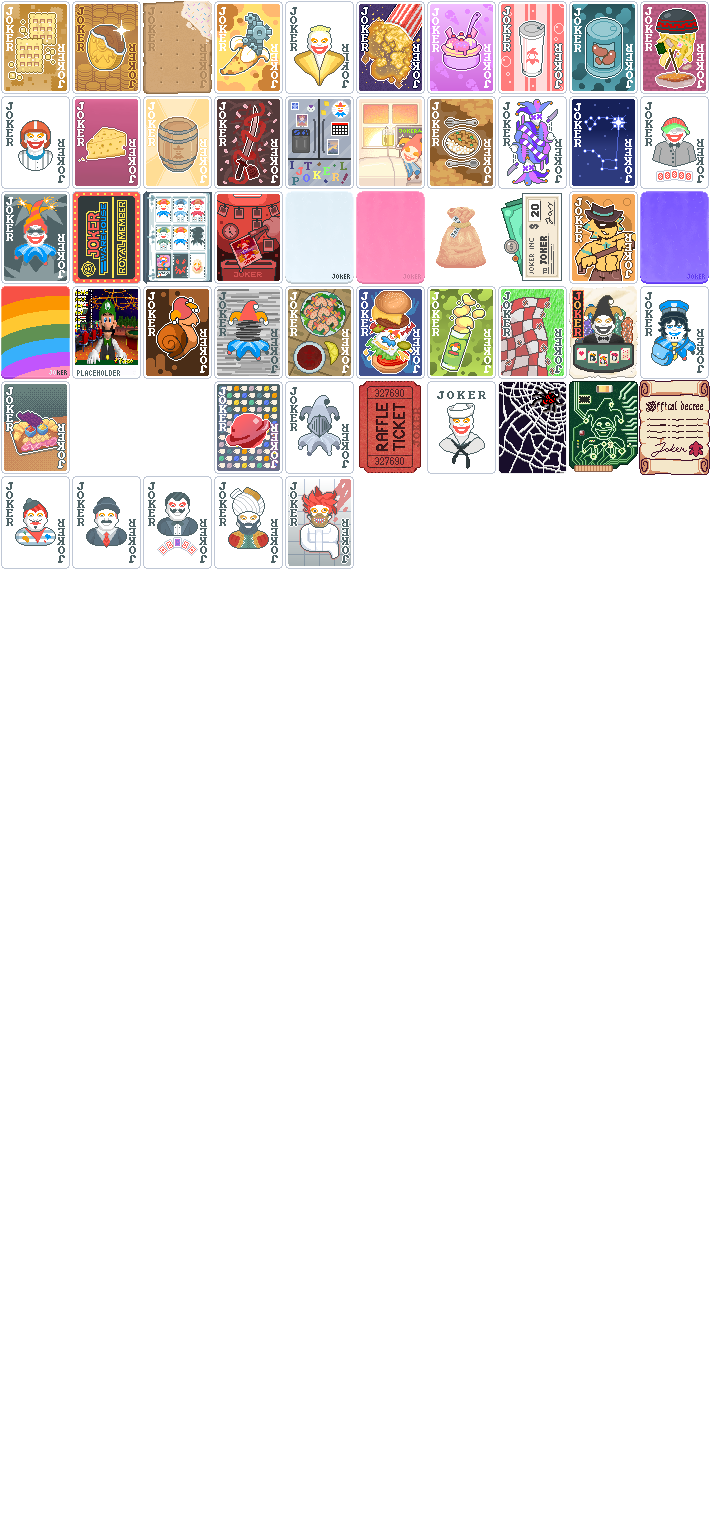
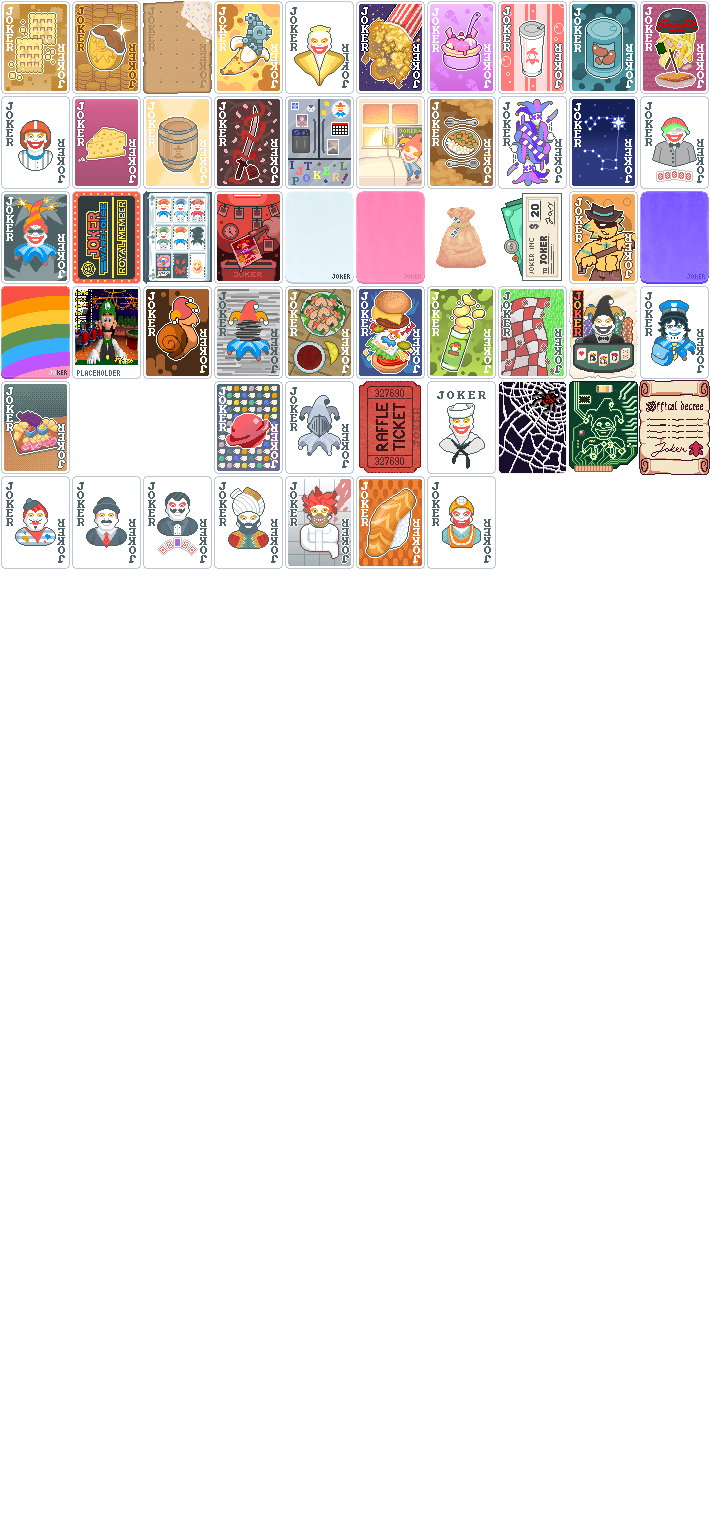
changes

Changed region(s): [[0.4958, 0.3092, 0.7127, 0.3711]]

diff --git a/CHANGELOG.md b/CHANGELOG.md
@@ -1,16 +1,20 @@
 ## v0.1.2.0
 ### Additions
+#### Jokers
+- Nigiri (Common): *The next 20 scored cards permanently give +1 Mult*
+- Miner (Uncommon): *Held in hand effects also trigger on cards in poker hand*
 #### Challenges
 - Clown Shoe: Deck is 8x as large
 ### Changes
 #### Jokers
-- Saltine Cracker now gains +25 Chips per hand
+- Saltine Cracker now gains +25 Chips per hand instead of +30.
+- Charcuterie board now gives +250 Chips, and has a 1 in 250 chance of being destroyed.
 ### Fixes
-- Fixed the activation condition of various jokers for Card Binder.
-- Fixed Rainbow Card disabling when you "buy and use" a consumable in shop.
-- Added JokerDisplay support for Circuit Board, Painter, and Tax Collector.
-- Fixed Lucky Cards crashing when Freezer is held sometimes.
-- Debuffed Food Jokers still count as Food Jokers now.
+- Fixed Illusionist sometimes not adding an enhancement when it should have.
+- Blitz Deck no longer crashes when entering Ante 9.
+- Erratic Deck Voucher shows its effect in the Collection.
+- Fixed All In Jest's Crossmod Fabled Deck Voucher crashing when a Legendary Joker is purchased.
+- Fixed crashes with log "attempt to index field 'ability'"
 
 ## v0.1.1.2
 ### Additions
